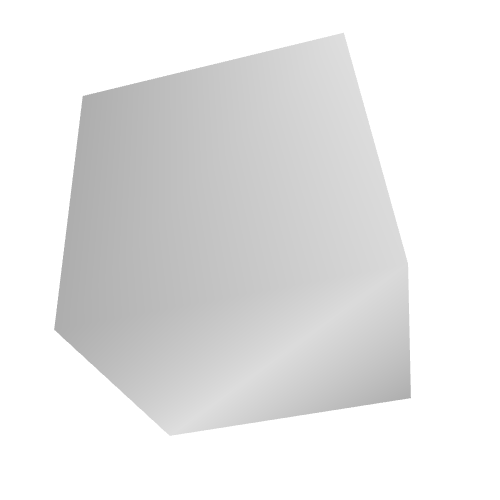
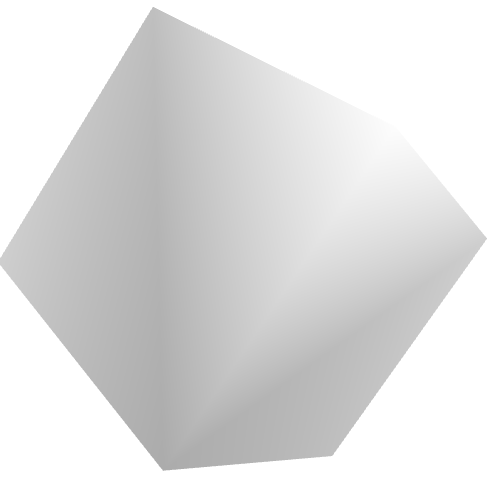
Revert "commit"
This reverts commit ab8db3a9ebd791187a893fb8b294f4d2d5f64e92.

Changed region(s): [[0.0, 0.18, 0.99, 0.96], [0.21, 0.0, 0.78, 0.36]]

diff --git a/trimesh_module.py b/trimesh_module.py
@@ -1,0 +1,88 @@
+import numpy as np
+import check_renders
+import trimesh
+
+class Trimesh:
+    render_points = 0
+    voxel_points = 0
+    def __init__(self, reference_path, solve_path):
+        self.reference_path = reference_path
+        self.solve_path = solve_path
+        transformations = []
+        for i in range(10):
+            transformations.append(trimesh.transformations.random_rotation_matrix())
+
+        solve_renders = self.get_renders(solve_path, 'solve', transformations)
+
+        reference_renders = self.get_renders(reference_path, 'reference', transformations)
+
+        renders = check_renders.Check_renders(reference_renders, solve_renders)
+        self.render_points = renders.all_points
+        i = 0
+        while i <1:
+            self.voxel_compare(solve_path)
+            i += 1
+
+
+    def get_renders(self, file_path, obj_type, transformations):
+        renders = []
+
+        obj = trimesh.load(file_path, process = False)
+        try:
+            meshes_list = obj.dump()
+            scene = trimesh.Scene(meshes_list)
+        except:
+            mesh = obj
+            scene = mesh.scene()
+        scene.centroid
+        rotate = trimesh.transformations.rotation_matrix(
+            angle=25,
+            direction=[0, 0, 5],
+            point=scene.centroid)
+        for i in range(10):
+            scene.apply_transform(transformations[i])
+            #trimesh.constants.log.info('Saving image %d', i)
+            #camera_old, _geometry = scene.graph[scene.camera.name]
+            #camera_new = np.dot(camera_old, rotate)
+            #scene.graph[scene.camera.name] = camera_new
+            try:
+                file_name = 'renders/render_' + obj_type + str(i) + '.png'
+                renders.append(file_name)
+                png = scene.save_image(resolution=[500, 500], visible=True)
+                with open(file_name, 'wb') as f:
+                    f.write(png)
+                    f.close()
+
+            except BaseException as E:
+                print("unable to save image", str(E))
+        return renders
+
+    def voxelized_obj(self, obj):
+        try:
+            v = obj.voxelized(pitch=0.25)
+        except:
+            meshes_list = obj.dump()
+            mesh = meshes_list.sum()
+            scene = trimesh.Scene(meshes_list)
+            v = mesh.voxelized(pitch=0.25)
+        return v
+    def voxel_compare(self,solve):
+        obj = trimesh.load(solve, process=False)
+        obj2 = trimesh.load(self.reference_path, process=False)
+        v1 = self.voxelized_obj(obj)
+        v2 = self.voxelized_obj(obj2)
+        same_voxels = 0
+        if v1.points.size >= v2.points.size:
+            compare_array = np.in1d(v2.points, v1.points)
+            for i in range(len(compare_array)):
+                if compare_array[i] == True:
+                    same_voxels += 1
+            self.voxel_points = (same_voxels * 100) / v1.points.size
+        else:
+            compare_array = np.in1d(v1.points, v2.points)
+            for i in range(len(compare_array)):
+                if compare_array[i] == True:
+                    same_voxels += 1
+            self.voxel_points = (same_voxels * 100) / v2.points.size
+
+

diff --git a/check_renders.py b/check_renders.py
@@ -1,51 +1,43 @@
+import sys
+import os
+from json import loads
+import cv2
 import numpy as np
-import check_renders
-import trimesh
+from skimage.metrics import structural_similarity as ssim
 
-class Trimesh:
-    render_points = 0
+ERR_OK = 0
+ERR_WA = 1
+ERR_PE = 2
+ERR_UH = 3
+eps = 10e-3
+maxPoint = 5
+errweight = 10
+class Check_renders:
+	points = 0
+	all_points = 0
+	def __init__(self, imgOut, imgAns):
+		self.imgOut = imgOut  # path to image эталон
+		self.imgAns = imgAns  # решение участника
+		for i  in range(len(imgOut)):
+			self.points += self.compare(imgOut[i], imgAns[i])
+		verh = 100 * self.points
+		niz = maxPoint*len(imgAns)*10
+		dif =int( verh/niz)
+		self.all_points = dif
 
-    def __init__(self, reference_path, solve_path):
-        self.reference_path = reference_path
-        self.solve_path = solve_path
-        transformations = []
-        for i in range(10):
-            transformations.append(trimesh.transformations.random_rotation_matrix())
-        solve_renders = self.get_renders(solve_path, 'solve', transformations)
-        reference_renders = self.get_renders(reference_path, 'reference', transformations)
-        renders = check_renders.Check_renders(reference_renders, solve_renders)
-        self.render_points = renders.all_points
+	def mse(self, imageA, imageB):
+		err = np.sum((imageA.astype("float") - imageB.astype("float")) ** 2)
+		err /= float(imageA.shape[0] * imageA.shape[1])
+		return err
 
-
-    def get_renders(self, file_path, obj_type, transformations):
-        renders = []
-
-        obj = trimesh.load(file_path, process = False)
-        try:
-            meshes_list = obj.dump()
-            scene = trimesh.Scene(meshes_list)
-        except:
-            mesh = obj
-            scene = mesh.scene()
-        scene.centroid
-        rotate = trimesh.transformations.rotation_matrix(
-            angle=25,
-            direction=[0, 0, 5],
-            point=scene.centroid)
-        for i in range(10):
-            scene.apply_transform(transformations[i])
-            try:
-                file_name = 'renders/render_' + obj_type + str(i) + '.png'
-                renders.append(file_name)
-                png = scene.save_image(resolution=[500, 500], visible=True)
-                with open(file_name, 'wb') as f:
-                    f.write(png)
-                    f.close()
-
-            except BaseException as E:
-                print("unable to save image", str(E))
-        return renders
-
-
-
-
+	def compare(self, imgAnsPath, imgOutPath):
+		x1 = cv2.imread(imgAnsPath)
+		x2 = cv2.imread(imgOutPath)
+		b1, g1, r1 = cv2.split(x1)
+		b2, g2, r2 = cv2.split(x2)
+		b = ssim(b1, b2)
+		g = ssim(g1, g2)
+		r = ssim(r1, r2)
+		ds = (1.0 - (b + g + r) * 0.333333) / 2.0
+		points = max(int(round((1 - ds * errweight) * maxPoint, 0)), 0)
+		return points

diff --git a/main.py b/main.py
@@ -6,9 +6,8 @@ import parse_obj
 import check_obj
 import check_uv
 #import check_normals
-import check_renders
+import trimesh_module
 import  accrue_points
-import voxel_compare
 
 reference = sys.argv[1]
 solve = sys.argv[2]
@@ -16,12 +15,10 @@ solve = sys.argv[2]
 
 if __name__ == '__main__':
     #check renders
-    renders = check_renders.Trimesh(reference, solve)
-    print('renders points', renders.render_points)
-    voxels = voxel_compare.Voxel(reference, solve)
+    trimesh_module = trimesh_module.Trimesh(reference, solve)
+    print('voxel compare', trimesh_module.voxel_points, 'renders check', trimesh_module.render_points)
     point0 = trimesh_module.voxel_points
     point1 = trimesh_module.render_points
-
     #check material
 #    mtl1 = parse_mtl.Mtl(reference)
     mtl1 = parse_mtl.Mtl(reference)
@@ -44,7 +41,6 @@ if __name__ == '__main__':
     check_uv = check_uv.Check_UV(obj.polygons)
     print('percent_busy', check_uv.percent_busy)
     point7 = accrue_points.Obj_points('uv', 1, 10, check_uv.percent_busy , 80)
-
     #check_normals
     #check_normals = check_normals.Check_normals(obj.polygons)
     #check_normals = check_normals.Check_normals(obj)
